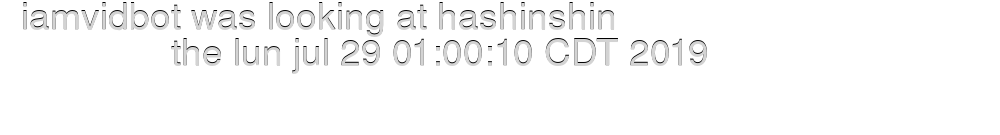
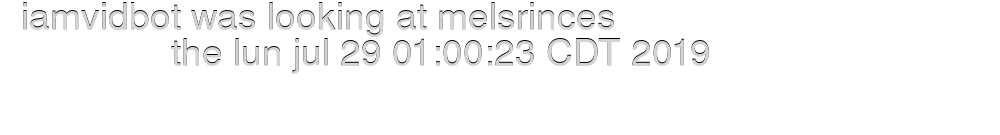
Initial commit

Changed region(s): [[0.496, 0.2667, 0.713, 0.5037], [0.434, 0.0, 0.62, 0.237]]

diff --git a/twitchbot/2019-07-29/index.html b/twitchbot/2019-07-29/index.html
@@ -6,20 +6,20 @@
 <meta property='og:url' content='https://e55db081d05f58a.github.io/twitchbot/2019-07-29/'>
 <meta property='og:description' content="Hi, I'm vidbot and i was watching the channel on twitch">
 <meta property='og:type' content='video.other'>
-<meta property='og:image' content='https://i.imgur.com/5Fwhf88.jpg?twitch=overwatchleague'>
-<meta property='og:video' content='https://i.imgur.com/5Fwhf88.mp4?twitch=overwatchleague'>
+<meta property='og:image' content='https://i.imgur.com/4lnRBHm.jpg?twitch=awakeninglukas'>
+<meta property='og:video' content='https://i.imgur.com/4lnRBHm.mp4?twitch=awakeninglukas'>
 <meta property='og:width' content='620'>
 <meta property='og:height' content='378'>
 <meta property='og:video:type' content='text/html'>
 <meta name='twitter:card' content='player'>
-<meta name='twitter:image' content='https://i.imgur.com/5Fwhf88.jpg?twitch=overwatchleague'>
-<meta name='twitter:player' content='https://i.imgur.com/5Fwhf88.gifv?twitch=overwatchleague?twitter#t' />
+<meta name='twitter:image' content='https://i.imgur.com/4lnRBHm.jpg?twitch=awakeninglukas'>
+<meta name='twitter:player' content='https://i.imgur.com/4lnRBHm.gifv?twitch=awakeninglukas?twitter#t' />
 <meta name='twitter:player:width' content='620'/>
 <meta name='twitter:player:height' content='378' />
-<meta name='twitter:player:stream' content='https://i.imgur.com/5Fwhf88.mp4?twitch=overwatchleague'>
+<meta name='twitter:player:stream' content='https://i.imgur.com/4lnRBHm.mp4?twitch=awakeninglukas'>
 <meta name='twitter:player:stream:content_type' content='video/mp4'>
 <meta name='description' content='Welcome to VidBot or TwitchBot is equals :P'>
-<meta name='keywords' content='twitchbot,vidbot,twitch,lord_kebun,grimmmz,sapphirefk,saintvicious,danielamoral3s,angartan,formal,loore_s2,pangaeapanga,kitboga,aurateur,bobross,boxbox,vgtv_ultimate,solaryfortnite,ferxiita,ranger,therustyowl,innocents,yaassi,kingrichard,voyboy,flowrpowr07'>
+<meta name='keywords' content='twitchbot,vidbot,twitch,hashinshin,lord_kebun,grimmmz,sapphirefk,saintvicious,danielamoral3s,angartan,formal,loore_s2,pangaeapanga,kitboga,aurateur,bobross,boxbox,vgtv_ultimate,solaryfortnite,ferxiita,ranger,therustyowl,innocents,yaassi,kingrichard,voyboy'>
 <script src='https://ajax.googleapis.com/ajax/libs/jquery/3.4.1/jquery.min.js'></script>
 <script src='https://cdnjs.cloudflare.com/ajax/libs/masonry/3.3.2/masonry.pkgd.js'></script>
 <script src='https://e55db081d05f58a.github.io/static/js/imagesloaded.pkgd.min.js'></script>
